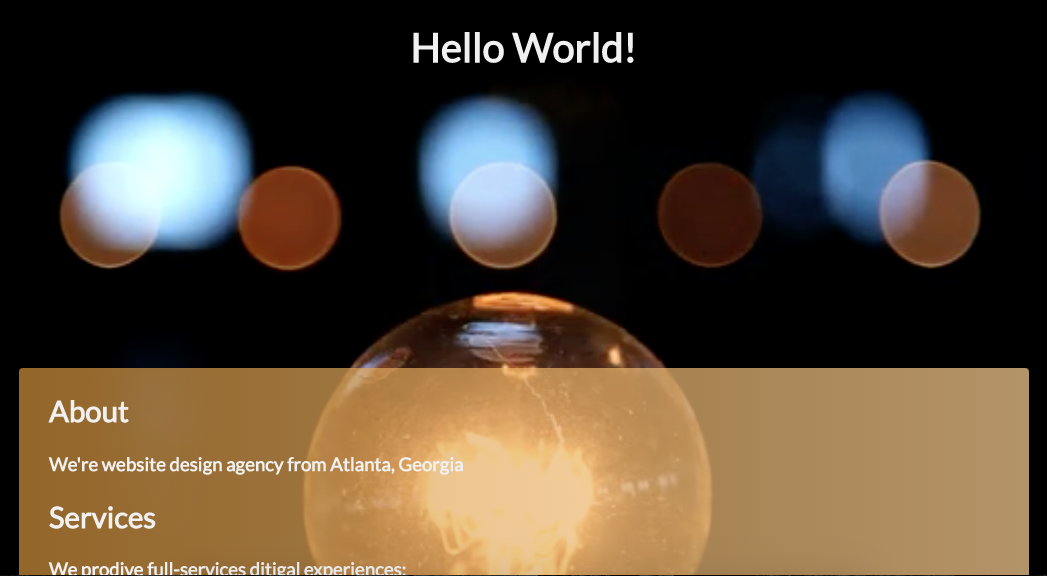
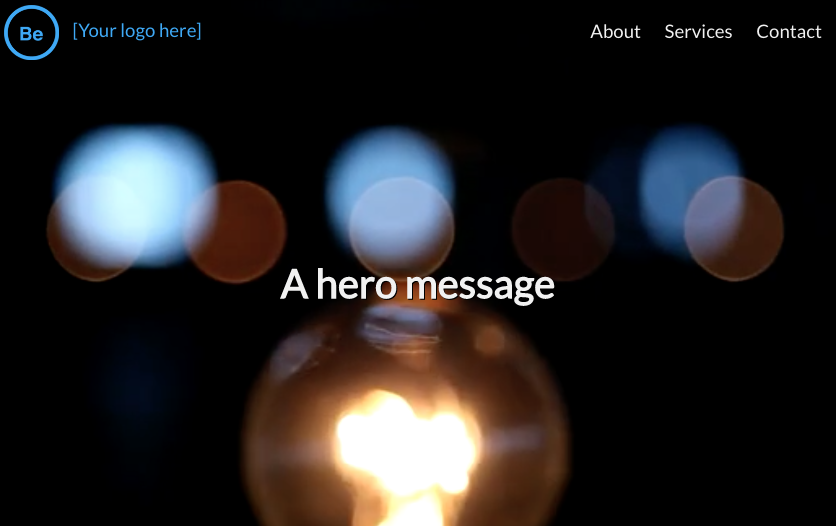
Restyle fullscreen

diff --git a/templates/video-background.html b/templates/video-background.html
@@ -55,6 +55,7 @@ nav a:hover{
 }
 h2{
   font-size: 22pt;
+  margin-top: 15px;
 }
 #hero-video{
   position: relative;
@@ -92,11 +93,12 @@ video{
 main{
   margin: 10px;
   border-radius: 3px;
-  padding: 1px 30px;
+  padding: 10px;
+  padding-top: 1px;
 
-  background: rgba(0, 210, 255, 0.7);  /* fallback for old browsers */
-  background: -webkit-linear-gradient(to right, rgba(58, 123, 213, 0.7), rgba(0, 210, 255, 0.7));  /* Chrome 10-25, Safari 5.1-6 */
-  background: linear-gradient(to right, rgba(58, 123, 213, 0.7), rgba(0, 210, 255, 0.7));
+  /*background: rgba(0, 210, 255, 0.7);  /* fallback for old browsers */
+  /*background: -webkit-linear-gradient(to right, rgba(58, 123, 213, 0.7), rgba(0, 210, 255, 0.7));   Chrome 10-25, Safari 5.1-6 */
+  /*background: linear-gradient(to right, rgba(58, 123, 213, 0.7), rgba(0, 210, 255, 0.7));*/*/
 
   /*background: #83a4d4;
   background: -webkit-linear-gradient(to right, #83a4d4, #b6fbff); 
@@ -105,6 +107,16 @@ main{
   /*background: rgba(209, 145, 60, 0.7);
   background: -webkit-linear-gradient(to right,rgba(209, 145, 60, 0.7), rgba(255, 209, 148, 0.7));
   background: linear-gradient(to right, rgba(209, 145, 60, 0.7), rgba(255, 209, 148, 0.7)); */
+}
+#panels{
+    max-width: 500px;
+    margin: auto;
+}
+#panels > div{
+  background-color: rgba(11, 7, 7, 0.4);
+  padding: 1px 20px 20px 20px;
+  margin-top: 9px;
+  border-radius: 3px;
 }
 footer{
   position: relative;
@@ -137,34 +149,36 @@ footer{
   <video src="https://static.videezy.com/system/resources/previews/000/002/313/original/electric-bulb-hd-stock-video.mp4" autoplay loop muted></video>
 </div>
 <main>
-<div id="about">
-  <h2>About</h2>
-  <p>
-    We're website design agency from Atlanta, Georgia.
-  </p>
-</div>
-<div id="services">
-  <h2>Services</h2>
-  <p>
-    We provide full-services digital experiences:
-  </p>
-  <ul>
-    <li>Website design</li>
-    <li>Brand development</li>
-    <li>Mobile web app development</li>
-    <li>Social media engagement</li>
-    <li>Email marketing campaign</li>
-    <li>Search Engine Optimization (SEO)</li>
-  </ul>
-  </p>
-</div>
-<div id="contact">
-  <h2>Contact</h2>
-  <p>
-    <div>Anh Cao</div>
-    <div>(678) 602-1591</div>
-    <div>anhcaoh@gmail.com</div>
-  </p>
+  <div id="panels">
+    <div id="about">
+      <h2>About</h2>
+      <p>
+        We're website design agency from Atlanta, Georgia.
+      </p>
+    </div>
+    <div id="services">
+      <h2>Services</h2>
+      <p>
+        We provide full-services digital experiences:
+      </p>
+      <ul>
+        <li>Website design</li>
+        <li>Brand development</li>
+        <li>Mobile web app development</li>
+        <li>Social media engagement</li>
+        <li>Email marketing campaign</li>
+        <li>Search Engine Optimization (SEO)</li>
+      </ul>
+      </p>
+    </div>
+    <div id="contact">
+      <h2>Contact</h2>
+      <p>
+        <div>Anh Cao</div>
+        <div>(678) 602-1591</div>
+        <div>anhcaoh@gmail.com</div>
+      </p>
+    </div>
 </div>
 </main>
 <footer>
